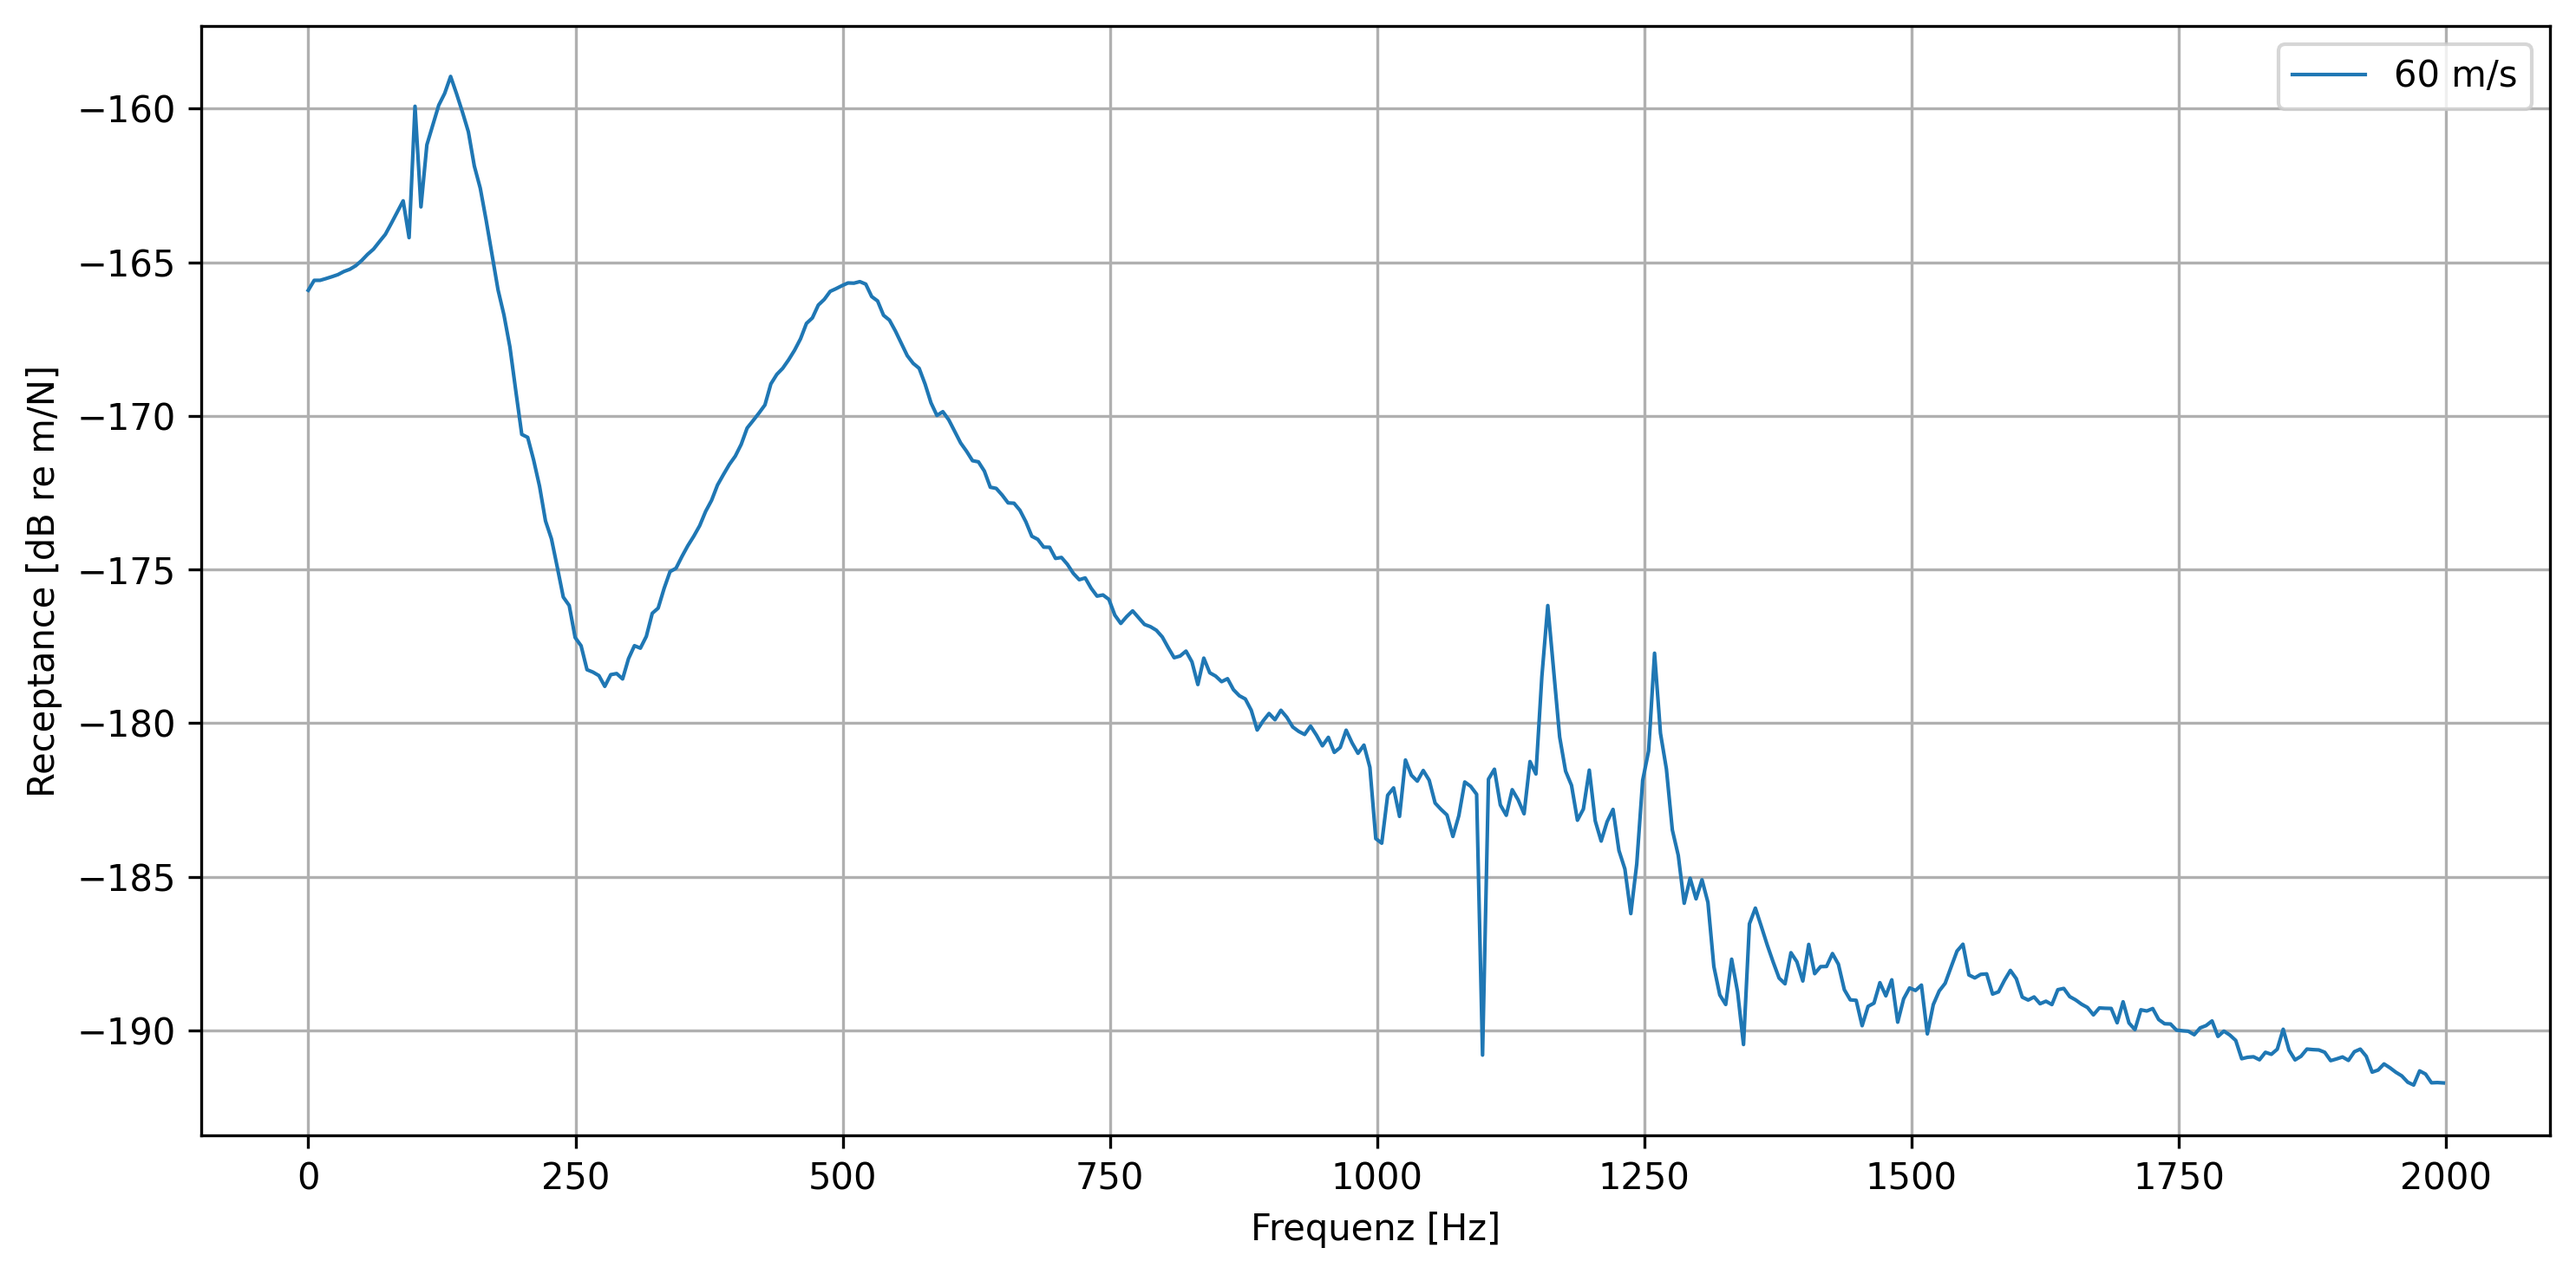
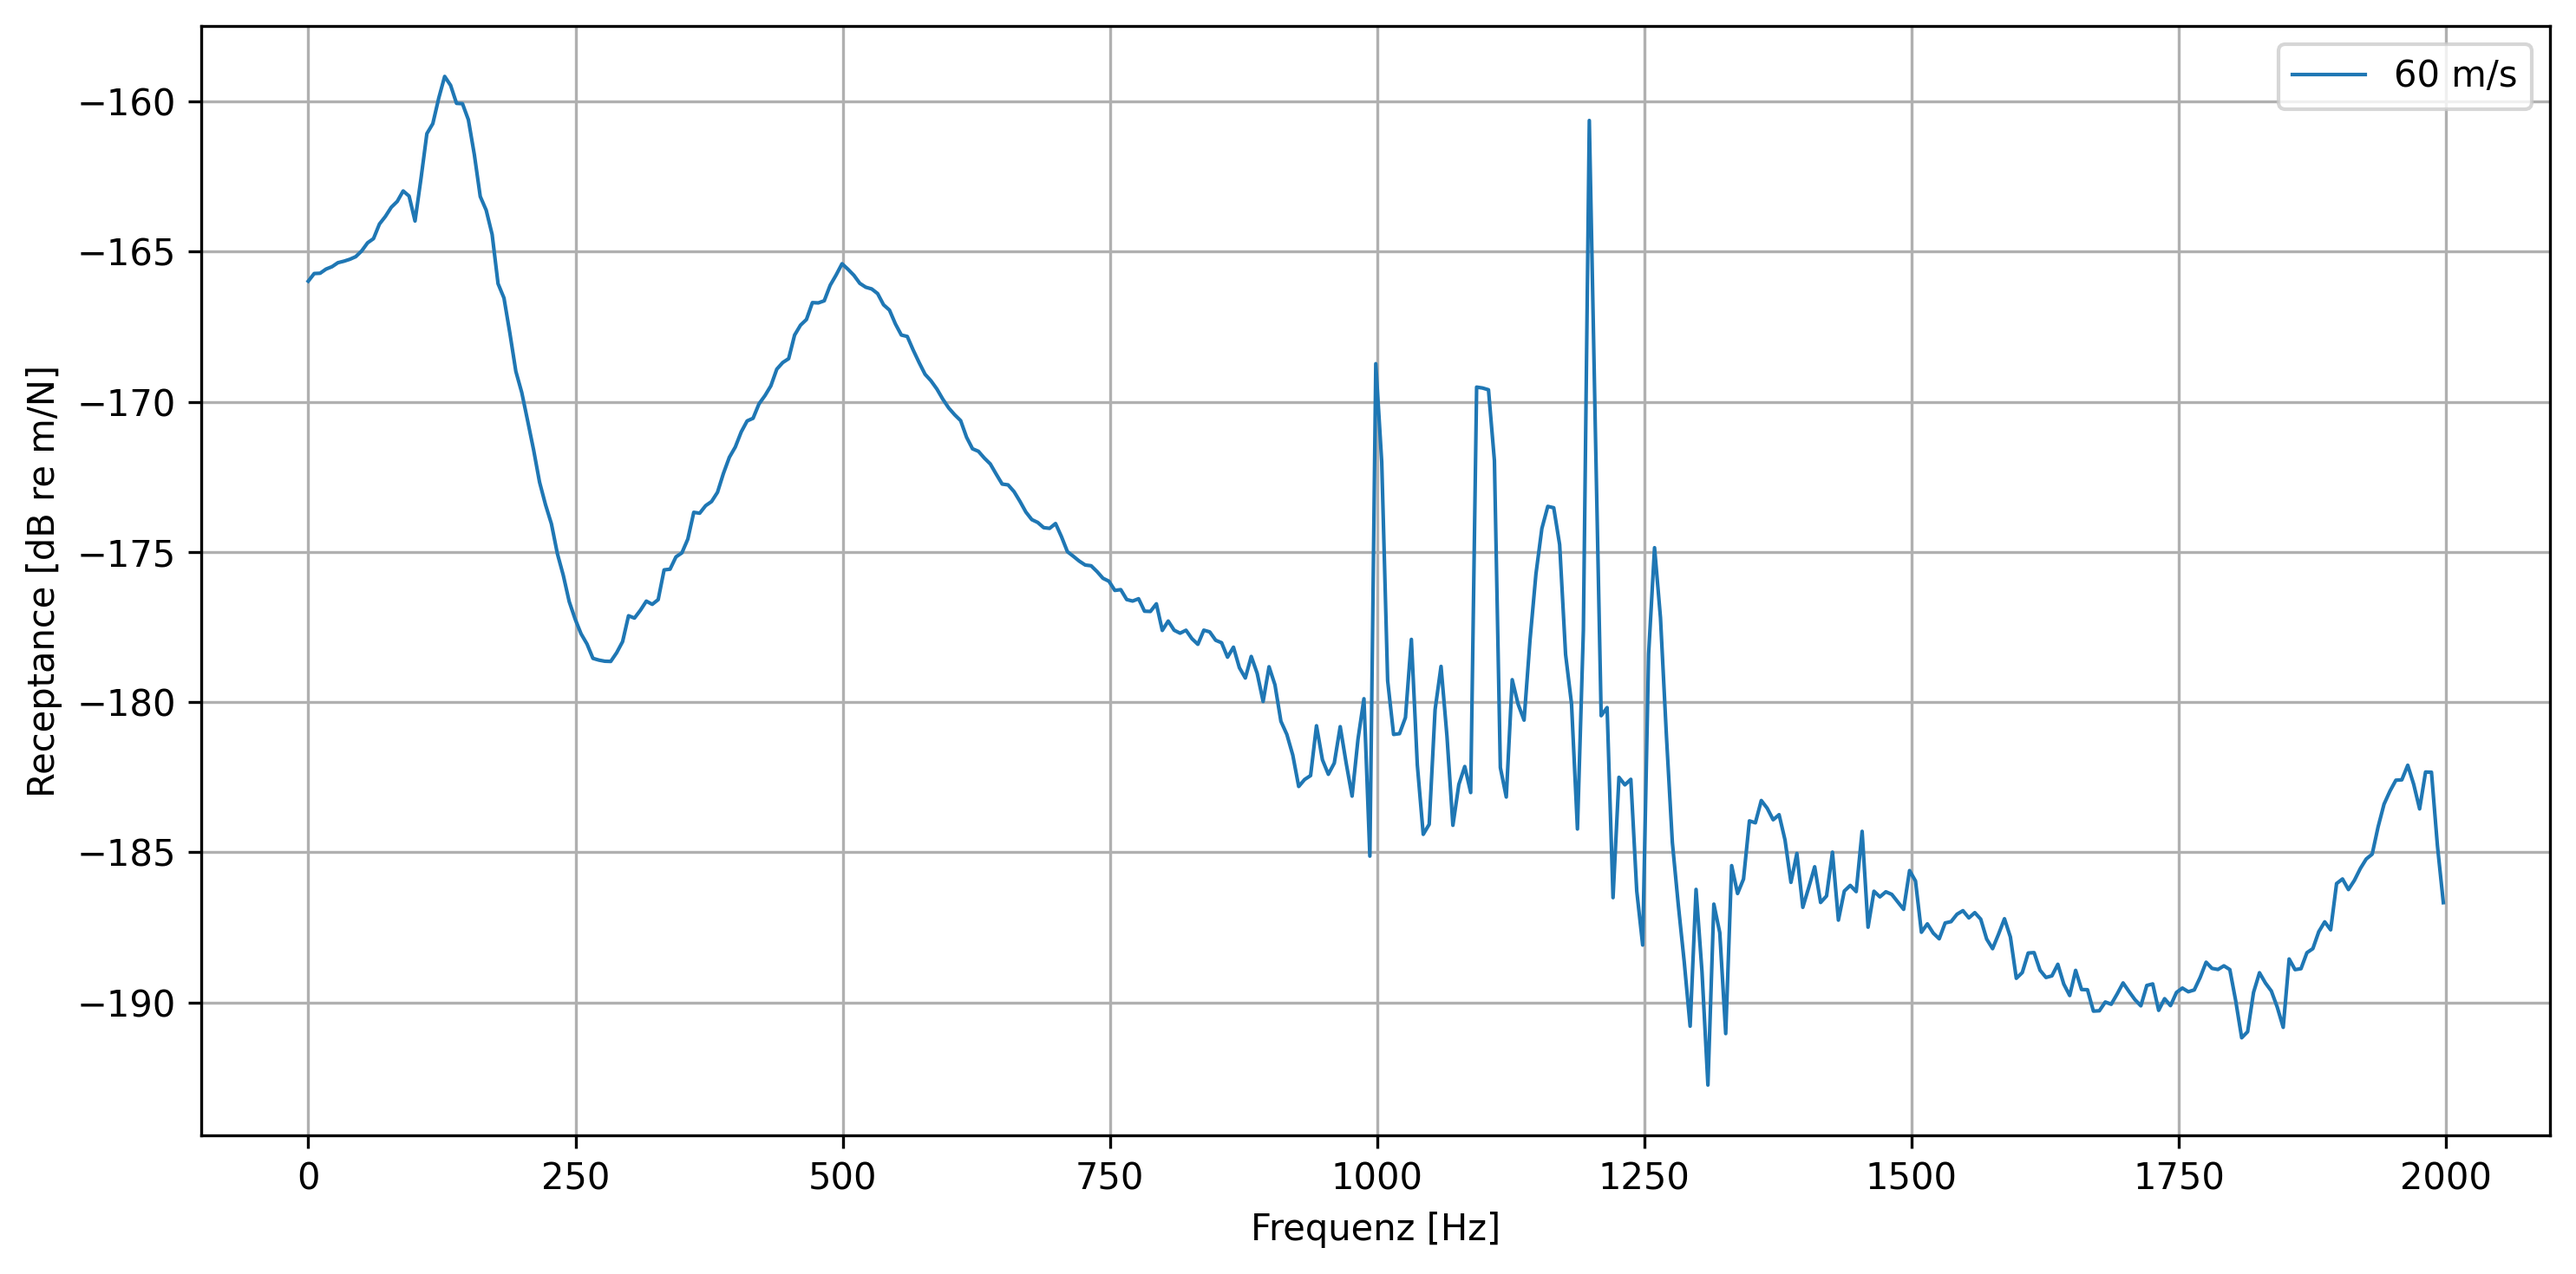
force_spectrum plot

diff --git a/Moving_Force.py b/Moving_Force.py
@@ -54,7 +54,7 @@ cut_initial               = 10000   # Number of initial time steps to cut for fr
 freq_limit                = 2000
 
 use_precalculated_results   = True
-use_contact_model           = False
+use_contact_model           = True
 
 
 
@@ -215,7 +215,26 @@ for i, deflection in enumerate(deflection_results.contact_point_deflection):
     receptance = Pyf / Pff
     mobility = 1j * omega * receptance
 
-    plt.plot(f, 20*np.log10(abs(Pff)))
+
+
+
+    # =============================================================================
+    # 7. PLOT FORCE SPECTRUM
+    # =============================================================================
+    plt.figure(figsize=(10, 5))
+    plt.plot(freqs, 20 * np.log10(np.abs(Pff)), color='blue', linewidth=1.5, label='Kraftspektrum')
+    plt.xlabel('Frequenz [Hz]')
+    plt.ylabel('Amplitude [dB]')
+    plt.title('Kraftspektrum (Power Spectral Density)')
+    plt.grid(True, which='both', linestyle='--', linewidth=0.5)
+    plt.legend()
+    plt.tight_layout()
+    plt.savefig(output_dir / 'force_spectrum.png', dpi=300, bbox_inches='tight')
+    plt.close()
+
+
+
+
 
     # Filter to 0-2000 Hz
     mask = (freqs >= 0) & (freqs <= freq_limit)
@@ -227,7 +246,7 @@ for i, deflection in enumerate(deflection_results.contact_point_deflection):
     plt.title(f'Rezeptanz - {vel} m/s')
     plt.grid(True)
     plt.suptitle(f'Kontaktpunkt {i+1} - {vel} m/s')
-    plt.tight_layout(rect=[0, 0.03, 1, 0.95])
+    # plt.tight_layout(rect=[0, 0.03, 1, 0.95])
     plt.savefig(str(output_dir / f'mobility_receptance_v{vel:03d}_wheel{i+1}.png'), dpi=300, bbox_inches='tight')
     plt.close()
 
@@ -434,3 +453,4 @@ for t_idx in range(deflection.shape[0]): # loop through time steps
 #     plt.tight_layout()
 #     plt.savefig(output_dir / 'quasi_static_force_excitation.png', dpi=300, bbox_inches='tight')
 #     plt.close()
+
